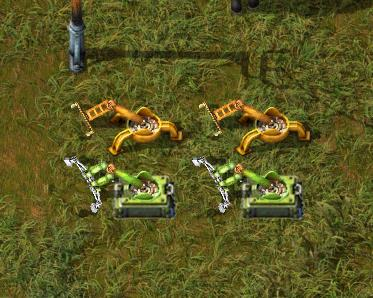
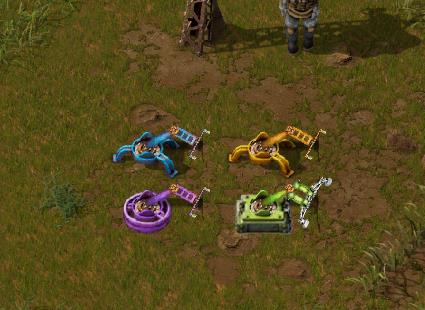
Filter inserters added

diff --git a/README.md b/README.md
@@ -7,7 +7,7 @@ This is a way to fix the Factorio graphics for colourblind people **without** us
 - The logistics network overlay has been updated to make it clearer.
 - Circuits updated.
 - Oil/lubricant updated.
-- Stack inserters updated with square base.
+- Stack and filter inserters updated with new bases.
 
 Science packs, circuits and wires:
 
@@ -21,9 +21,9 @@ Logistics network:
 
 ![Logistics network](example3.jpg)
 
-Stack inserter vs normal inserter:
+Stack and filter inserters vs normal and fast inserters:
 
-![Stack inserters](example4.jpg)
+![Inserters](example4.jpg)
 
 ## How to install
 
